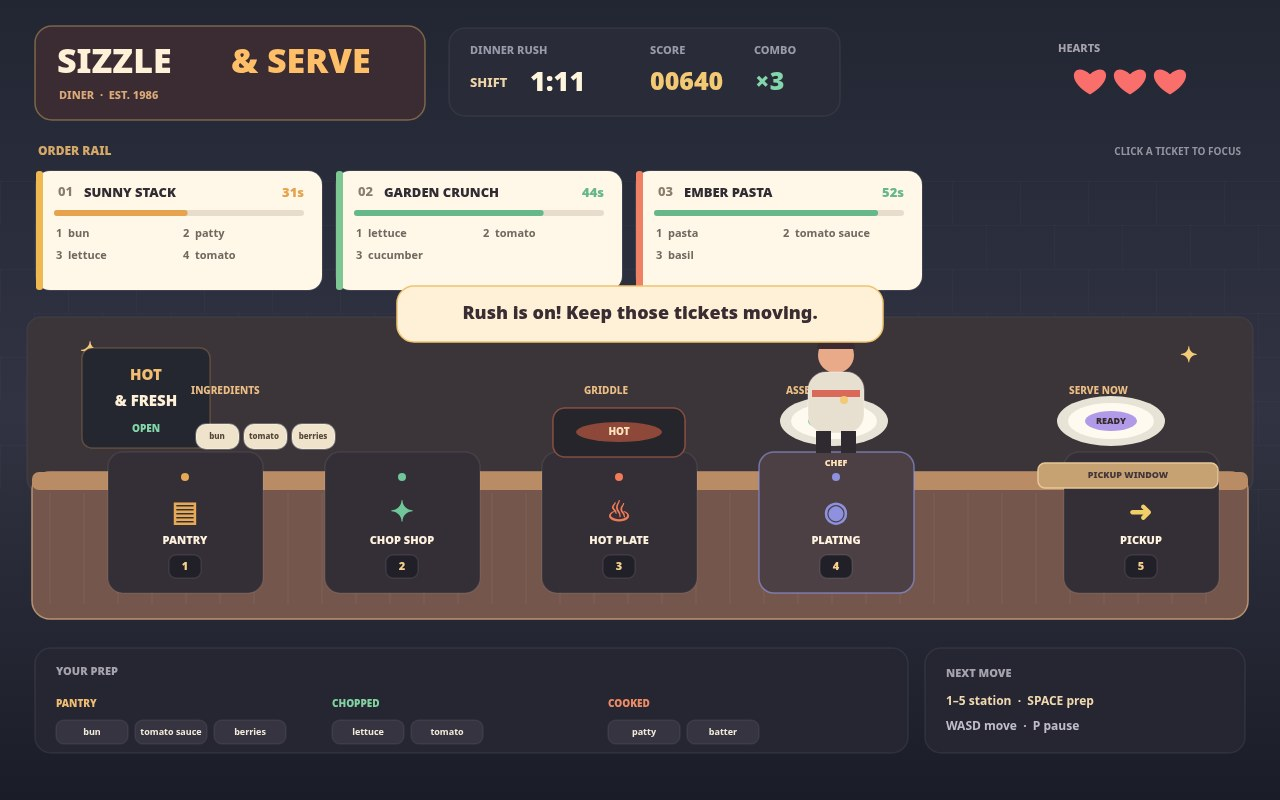
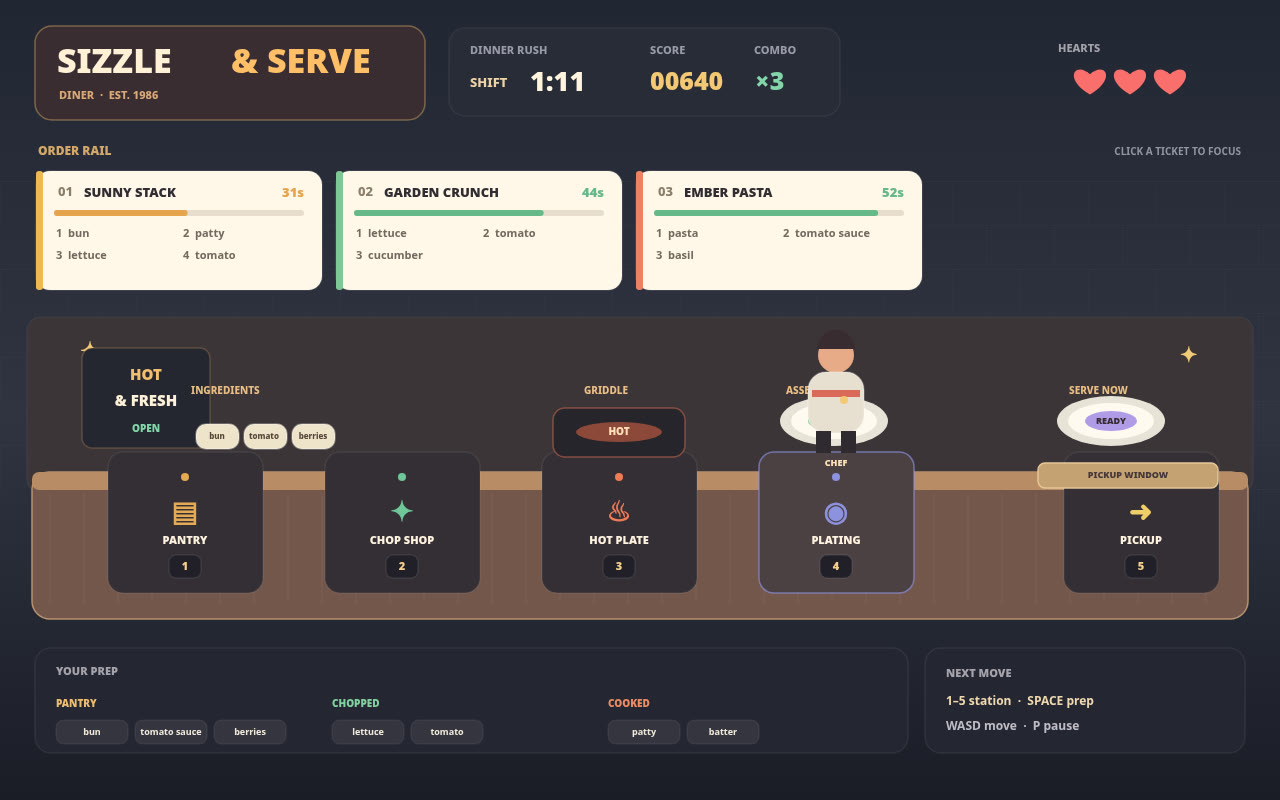
Revision: staged shots without toast; ticket urgency cue

diff --git a/game/src/render.js b/game/src/render.js
@@ -1,10 +1,11 @@
 import {W,H,STATIONS} from './config.js';
+const stagedShot=new URLSearchParams(location.search).has('shot');
 const rnd=(c,x,y,w,h,r=12)=>{c.beginPath();c.roundRect(x,y,w,h,r)};
 function text(c,str,x,y,size=16,color='#f8f0df',weight=700,align='left'){c.fillStyle=color;c.font=`${weight} ${size}px system-ui, sans-serif`;c.textAlign=align;c.textBaseline='middle';c.fillText(str,x,y)}
 function panel(c,x,y,w,h,fill='#252532',stroke='#ffffff18',r=14){rnd(c,x,y,w,h,r);c.fillStyle=fill;c.fill();c.strokeStyle=stroke;c.lineWidth=1.5;c.stroke()}
 function heart(c,x,y,on){c.save();c.translate(x,y);c.scale(1.2,1.2);c.fillStyle=on?'#fa6f6c':'#514148';c.beginPath();c.moveTo(0,8);c.bezierCurveTo(-23,-6,-12,-20,0,-9);c.bezierCurveTo(12,-20,23,-6,0,8);c.fill();c.restore()}
 function plate(c,x,y,color,label){c.fillStyle='#e8e3d7';c.beginPath();c.ellipse(x,y,54,25,0,0,Math.PI*2);c.fill();c.fillStyle='#fffaf0';c.beginPath();c.ellipse(x,y,43,18,0,0,Math.PI*2);c.fill();c.fillStyle=color;c.beginPath();c.ellipse(x,y,26,10,0,0,Math.PI*2);c.fill();text(c,label,x,y,9,'#362a2b',900,'center')}
-function ticket(c,o,x,y,w){panel(c,x,y,w,119,'#fff7e8','#ffffff22',14);c.fillStyle=o.recipe.color;rnd(c,x,y,7,119,3);c.fill();text(c,String(o.id).padStart(2,'0'),x+22,y+21,13,'#8a7d6c',800);text(c,o.recipe.short,x+48,y+22,13,'#302c33',900);const ratio=Math.max(0,o.remaining/o.total),col=ratio<.28?'#e95f61':ratio<.55?'#e6a24d':'#66b88a';text(c,`${Math.ceil(o.remaining)}s`,x+w-18,y+22,13,col,900,'right');panel(c,x+18,y+39,w-36,6,'#e8ddcd','#00000000',4);panel(c,x+18,y+39,(w-36)*ratio,6,col,'#00000000',4);o.recipe.ingredients.forEach((it,i)=>{text(c,`${i+1}  ${it[0]}`,x+20+(i%2)*((w-32)/2),y+63+Math.floor(i/2)*22,11,'#70695f',650)});}
+function ticket(c,o,x,y,w){const urgent=o.remaining<=10;panel(c,x,y,w,119,'#fff7e8',urgent?'#e95f61':'#ffffff22',14);c.fillStyle=o.recipe.color;rnd(c,x,y,7,119,3);c.fill();text(c,String(o.id).padStart(2,'0'),x+22,y+21,13,'#8a7d6c',800);text(c,o.recipe.short,x+48,y+22,13,'#302c33',900);const ratio=Math.max(0,o.remaining/o.total),col=ratio<.28?'#e95f61':ratio<.55?'#e6a24d':'#66b88a';text(c,`${Math.ceil(o.remaining)}s`,x+w-18,y+22,13,urgent?'#c9363c':col,900,'right');panel(c,x+18,y+39,w-36,6,'#e8ddcd','#00000000',4);panel(c,x+18,y+39,(w-36)*ratio,6,col,'#00000000',4);o.recipe.ingredients.forEach((it,i)=>{text(c,`${i+1}  ${it[0]}`,x+20+(i%2)*((w-32)/2),y+63+Math.floor(i/2)*22,11,'#70695f',650)});}
 export function draw(canvas,s){const dpr=Math.min(2,devicePixelRatio||1),w=canvas.clientWidth,h=canvas.clientHeight;if(canvas.width!==Math.round(w*dpr)||canvas.height!==Math.round(h*dpr)){canvas.width=Math.round(w*dpr);canvas.height=Math.round(h*dpr)}const c=canvas.getContext('2d');c.setTransform(canvas.width/1280,0,0,canvas.height/800,0,0);c.clearRect(0,0,W,H);
 const bg=c.createLinearGradient(0,0,0,H);bg.addColorStop(0,'#222633');bg.addColorStop(.52,'#313342');bg.addColorStop(1,'#1a1c27');c.fillStyle=bg;c.fillRect(0,0,W,H);
 // warm tiled back wall
@@ -37,5 +38,5 @@ panel(c,1038,463,180,25,'#c6a273','#e8c798',7);text(c,'PICKUP WINDOW',1128,475,9
 // ingredients inventory strip and action cue
 panel(c,35,648,873,105,'#252632','#ffffff12',16);text(c,'YOUR PREP',56,672,11,'#a6a3ad',900);const groups=[['PANTRY',s.inventory,'#efbd72'],['CHOPPED',s.chopped,'#83d1a1'],['COOKED',s.cooked,'#ed8b66']];groups.forEach((g,i)=>{const x=56+i*276;text(c,g[0],x,704,10,g[2],900);const items=g[1].length?g[1].slice(0,5):['—'];items.forEach((n,j)=>{panel(c,x+j*79,720,72,24,'#353440','#ffffff10',8);text(c,n,x+j*79+36,732,9,'#f2eadb',700,'center')})});
 panel(c,925,648,320,105,'#252632','#ffffff12',16);text(c,'NEXT MOVE',946,674,11,'#a6a3ad',900);text(c,'1–5 station  ·  SPACE prep',946,702,12,'#f0d8b0',750);text(c,'WASD move  ·  P pause',946,727,12,'#c0bdc8',650);
-if(s.toastTime>0){panel(c,397,286,486,56,'#fff1d8','#f0c270',17);text(c,s.toast,640,314,18,'#392c32',900,'center')}
+if(!stagedShot&&s.toastTime>0){panel(c,397,286,486,56,'#fff1d8','#f0c270',17);text(c,s.toast,640,314,18,'#392c32',900,'center')}
 if(s.screen==='title'||s.screen==='paused'||s.screen==='over'||s.screen==='won'){c.fillStyle='#11121bcc';c.fillRect(0,0,W,H);panel(c,305,170,670,470,'#302d3a','#f1c57688',26);text(c,s.screen==='title'?'YOUR LITTLE DINER, YOUR BIG NIGHT':s.screen==='paused'?'TAKE A BREATHER':s.screen==='won'?'SHIFT COMPLETE!':'KITCHEN CLOSED',640,239,29,'#fff0d6',950,'center');text(c,s.screen==='title'?'Every ticket is a tiny kitchen adventure.':s.screen==='won'?'You kept the rush smiling. Beautiful work, chef.':s.screen==='paused'?'The tickets can wait a moment.':'The rush got away from us. One more shift?',640,285,16,'#d0c8c9',600,'center');if(s.screen==='title'){['TAKE ingredients at Pantry','CHOP produce · GRILL the hot things','ASSEMBLE the ticket · SERVE at the pass','WASD / arrows move · 1–5 jump stations','SPACE / ENTER interact · click to move & prep'].forEach((t,i)=>{text(c,t,640,352+i*33,14,i===4?'#f4c779':'#f2eadf',700,'center')})}else{text(c,`FINAL SCORE  ${s.score}     ·     BEST COMBO  ×${s.combo}`,640,365,19,'#f4ca77',900,'center')}panel(c,474,512,332,63,'#e5a85b','#ffdda0',16);text(c,s.screen==='paused'?'RESUME   ·   SPACE':s.screen==='title'?'START SHIFT   ·   SPACE':'PLAY AGAIN   ·   SPACE',640,544,17,'#392c32',950,'center');text(c,'CLICK ANYWHERE TO START',640,607,10,'#aaa2aa',750,'center')}}
